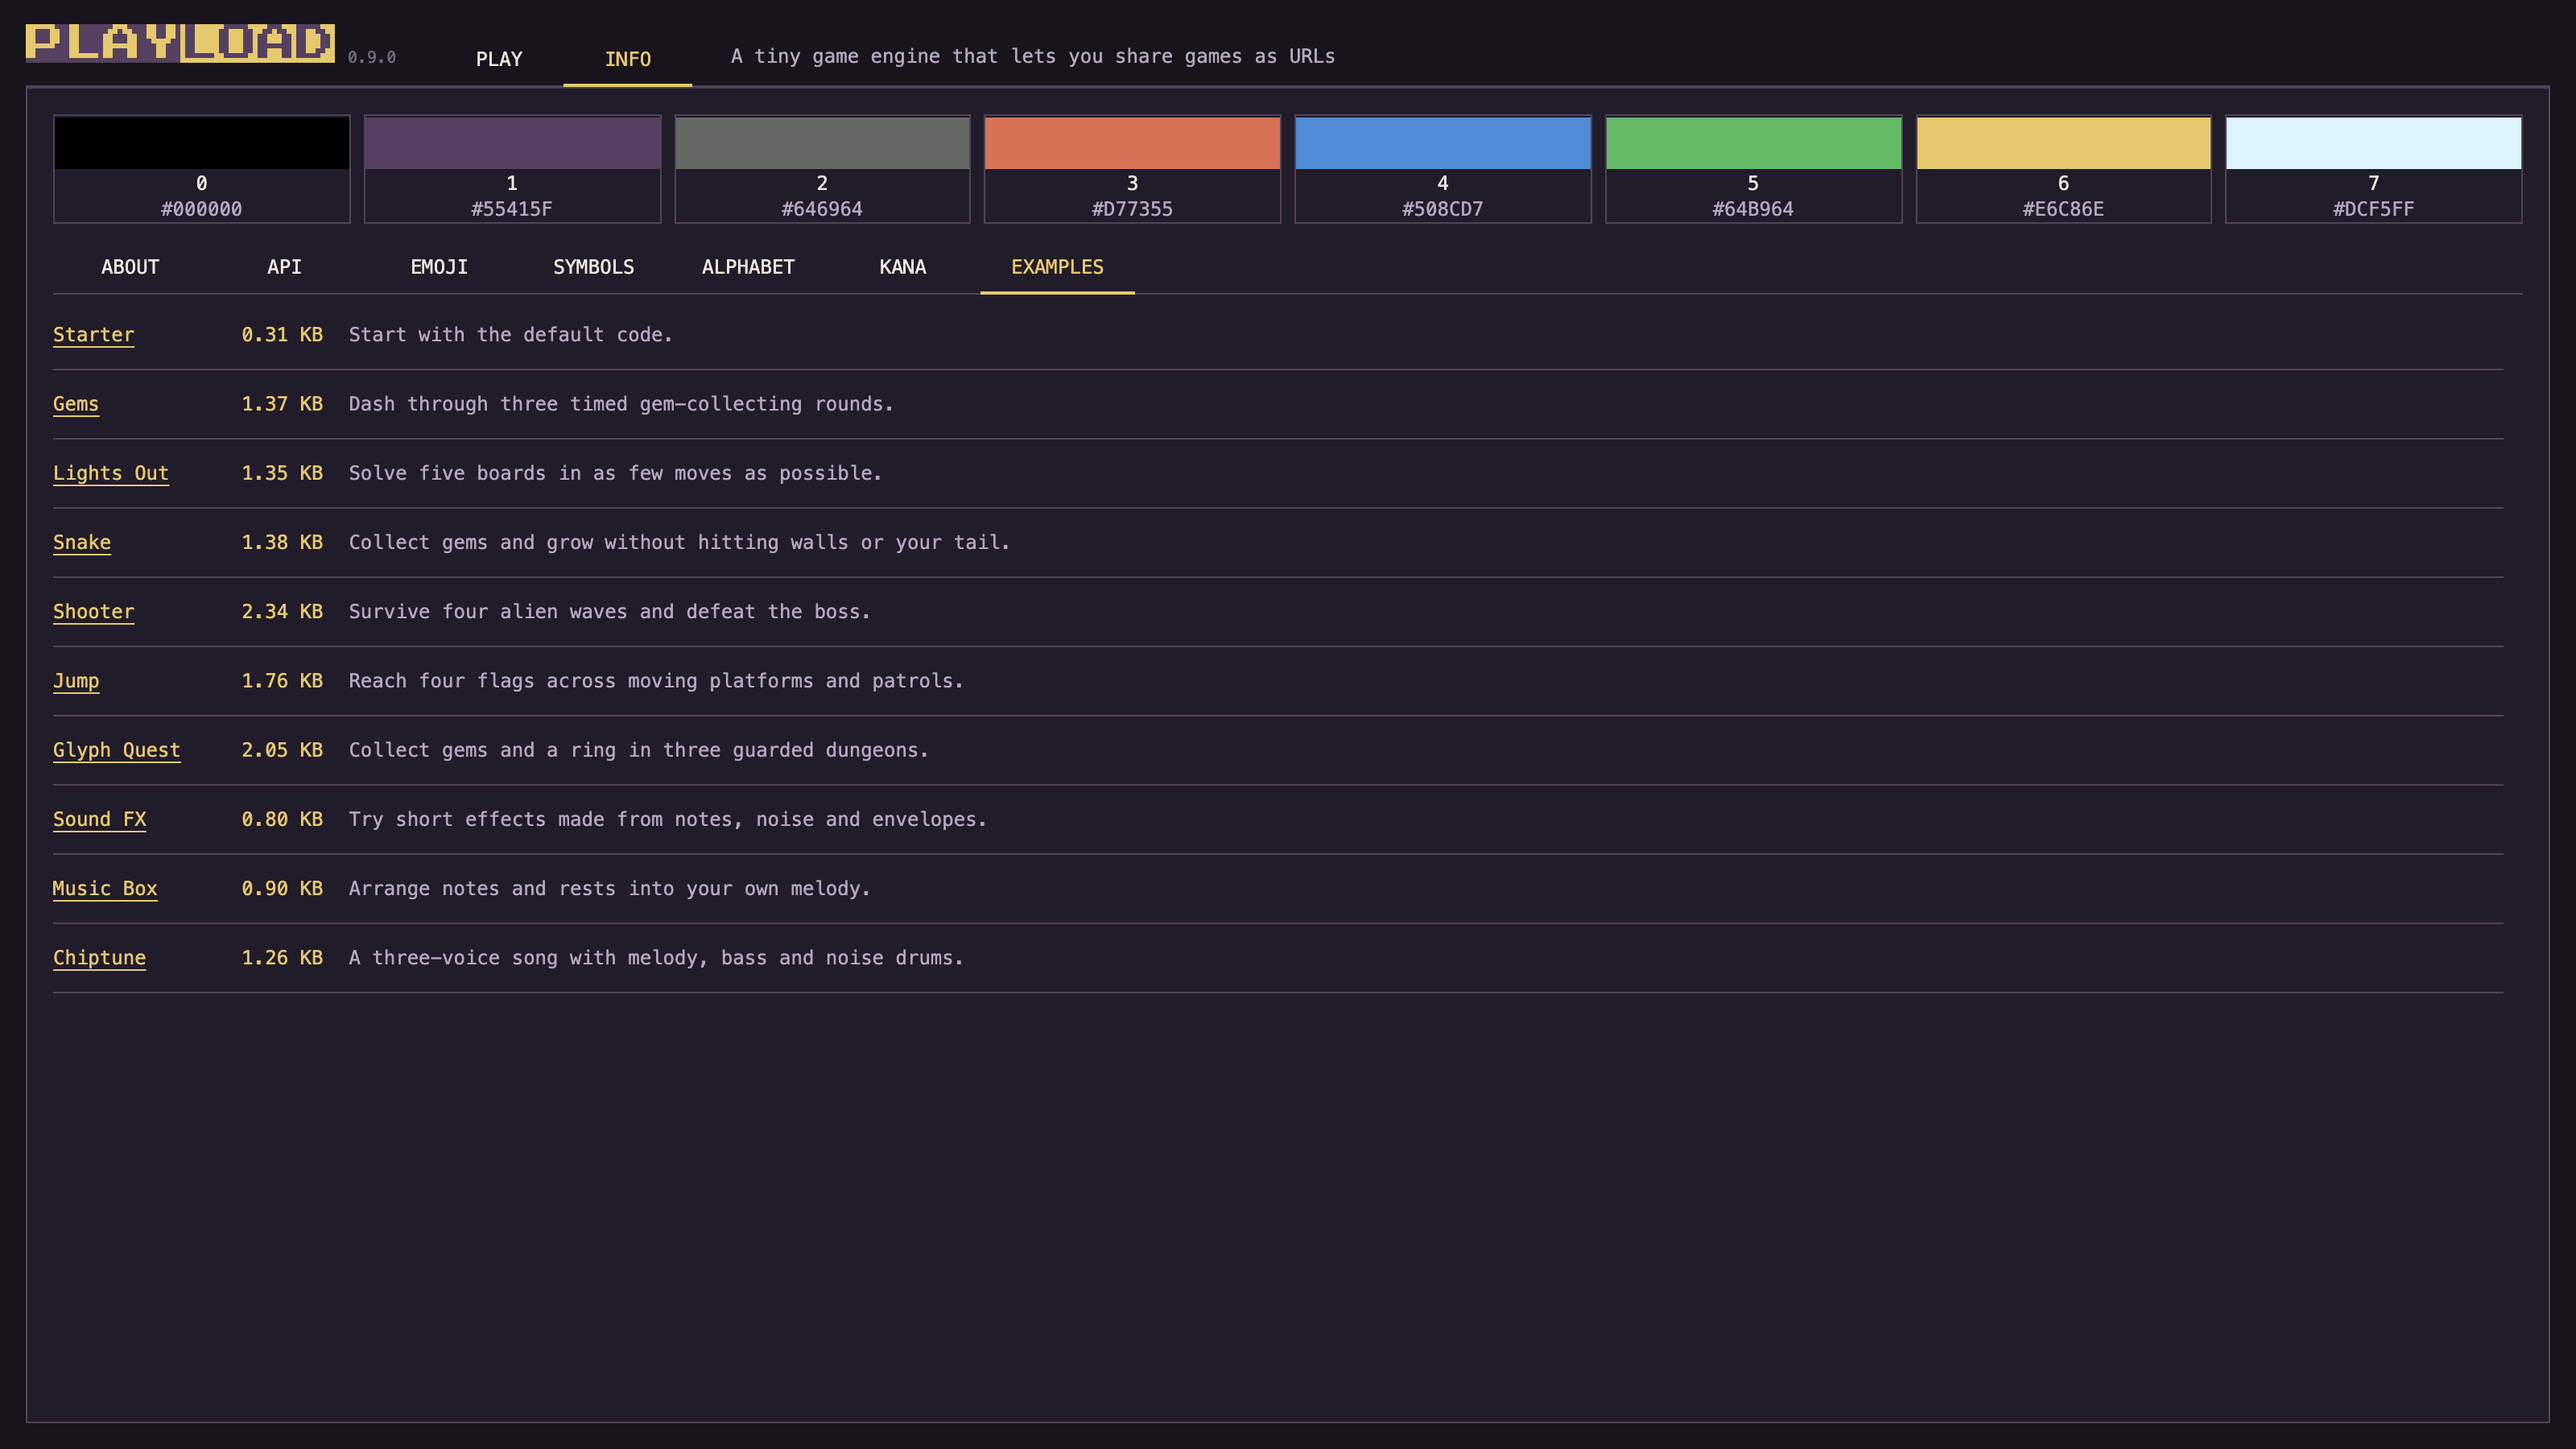
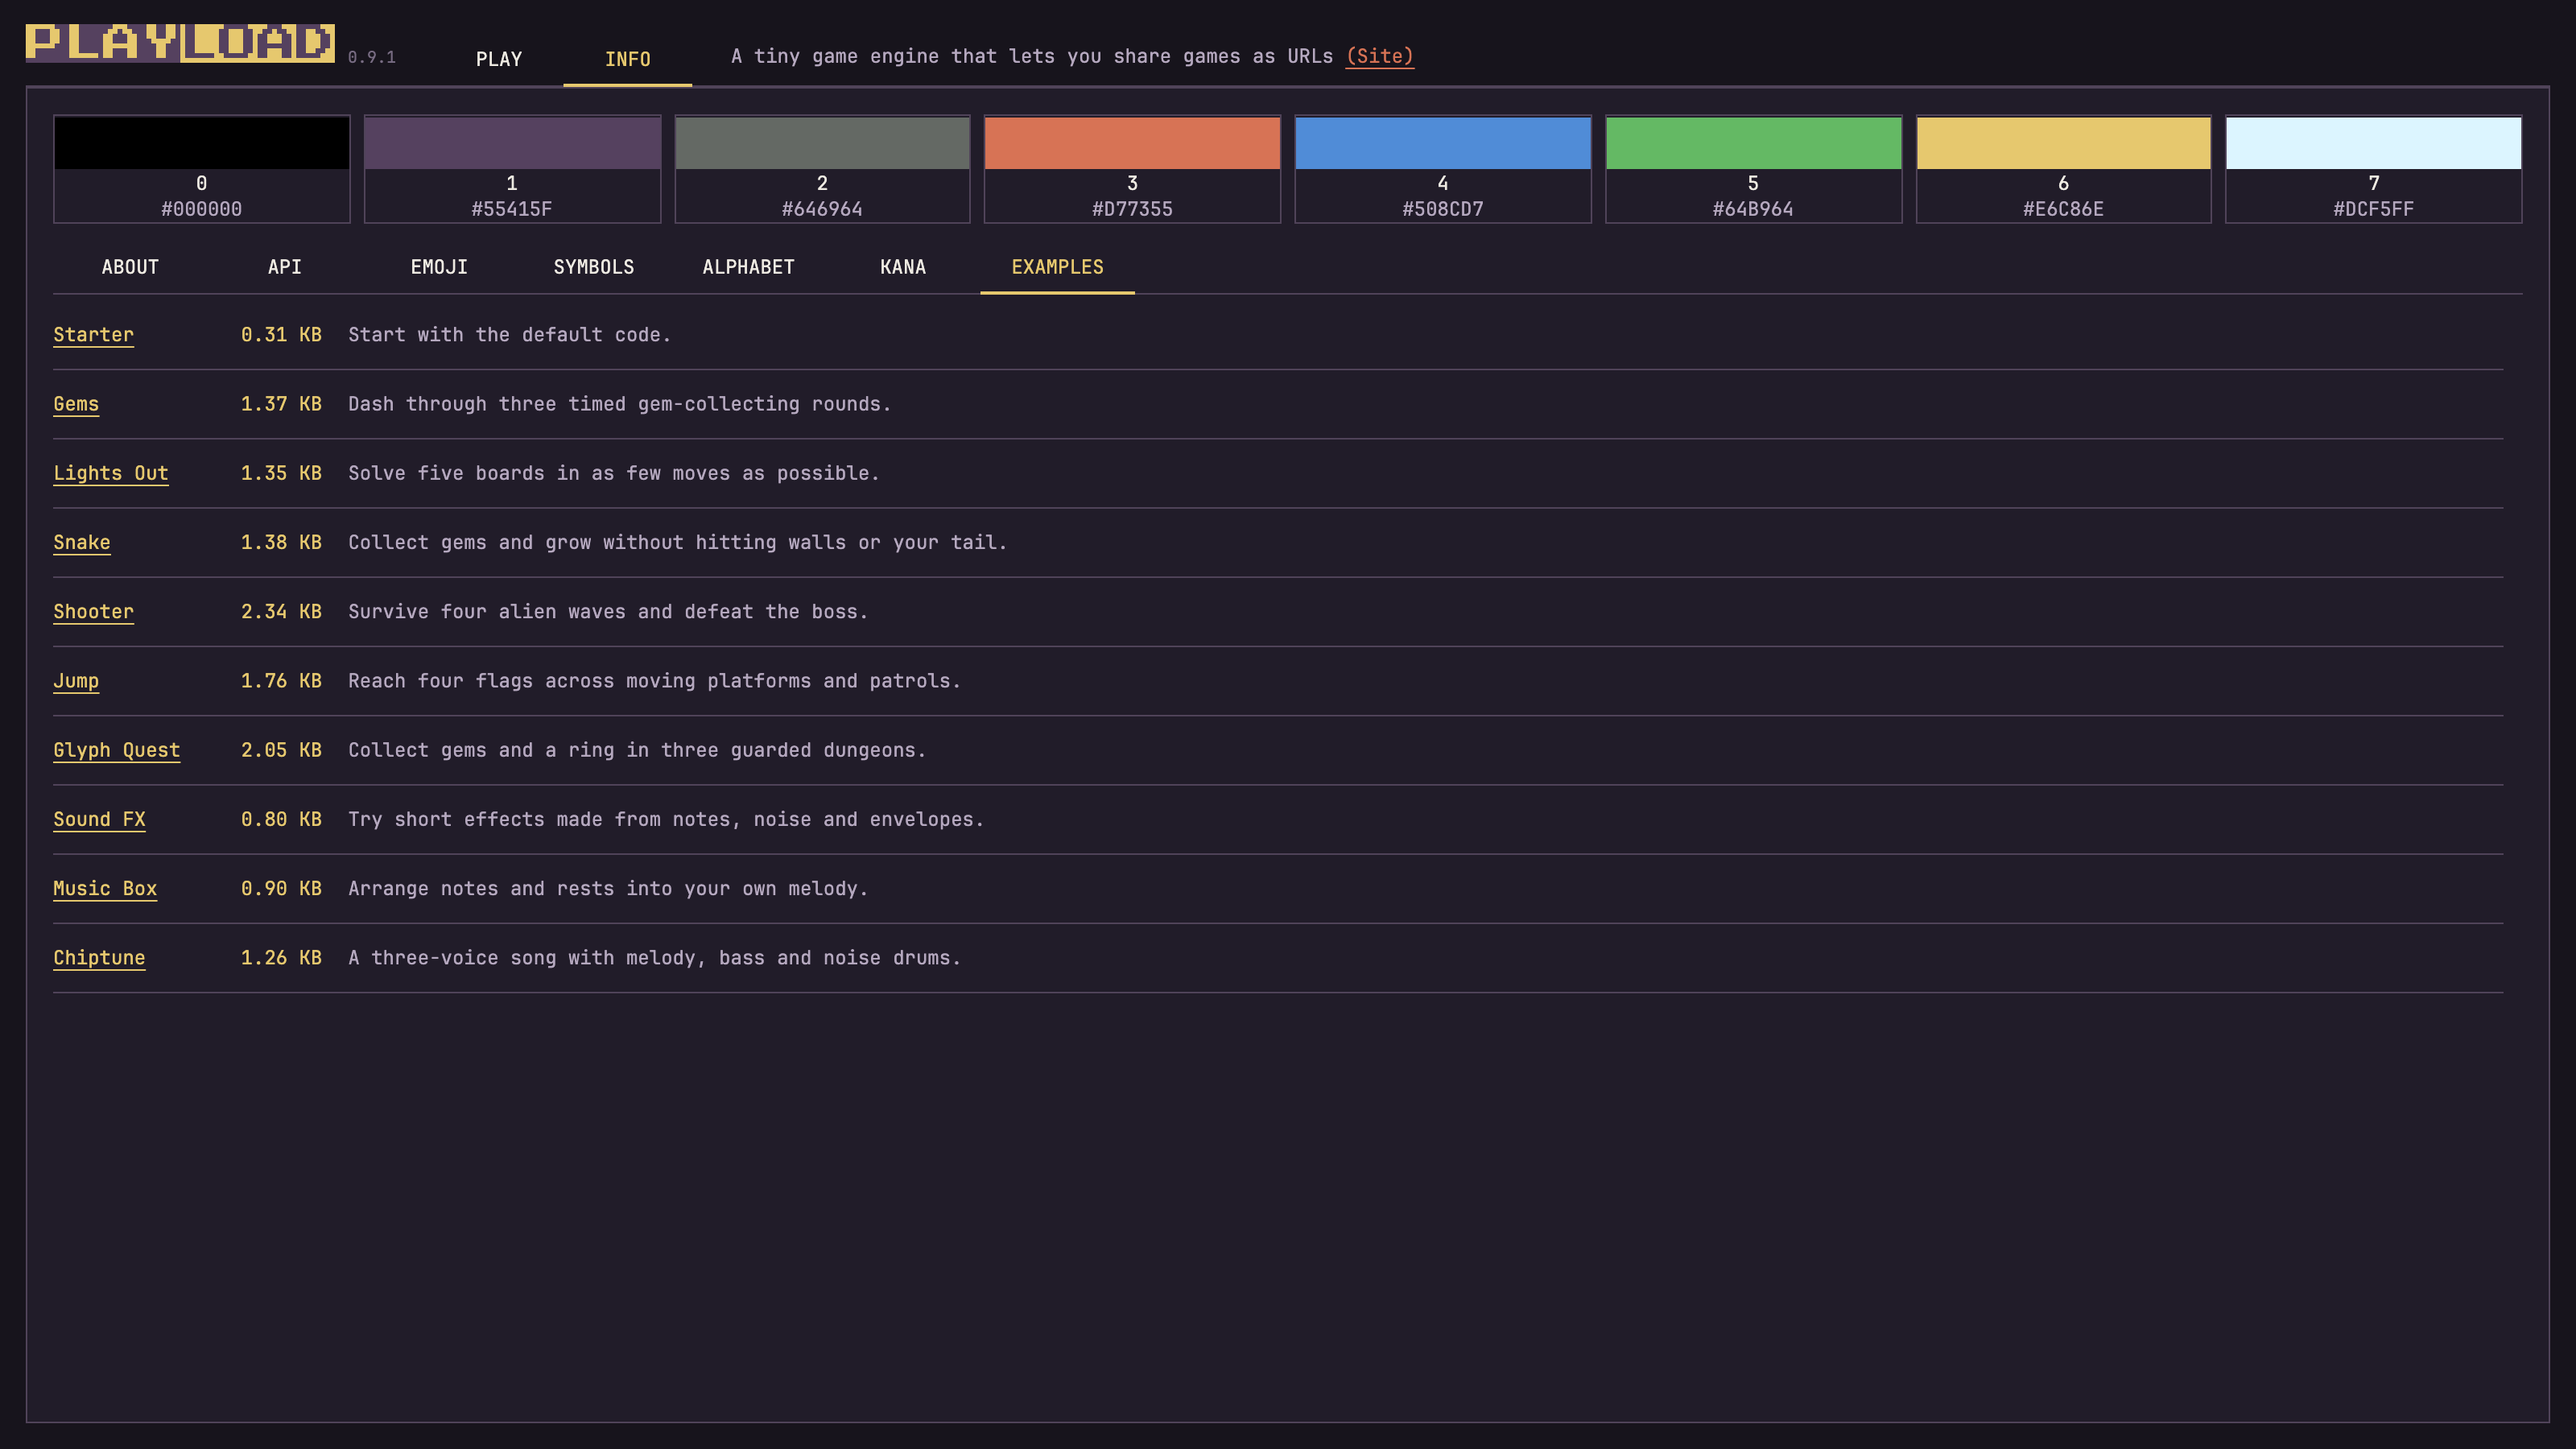
Improve navigation and touch layouts for Playload 0.9.1

diff --git a/tests/browser/runtime.spec.js b/tests/browser/runtime.spec.js
@@ -3280,6 +3280,12 @@ function tick() {
       [320, 568],
       [375, 560],
       [375, 350],
+      [393, 520],
+      [393, 600],
+      [479, 320],
+      [480, 320],
+      [559, 320],
+      [560, 320],
       [375, 667],
       [390, 844],
       [844, 390],
@@ -3328,8 +3334,9 @@ function tick() {
           expect(Math.min(r.width, r.height)).toBeGreaterThanOrEqual(48);
         }
       }
+      const player = await page.locator('#viewport').boundingBox();
+      expect(Math.abs(player.x + player.width / 2 - width / 2)).toBeLessThanOrEqual(1);
       if (height > width) {
-        const player = await page.locator('#viewport').boundingBox();
         const pad = await page.locator('.dpad').boundingBox();
         expect(
           Math.abs(player.y - headerBottom - (pad.y - player.y - player.height)),
@@ -3350,6 +3357,15 @@ function tick() {
       const menu = await page.locator('#workspace-toolbar').boundingBox();
       expect(menu.x + menu.width).toBeLessThanOrEqual(width);
       expect(menu.y + menu.height).toBeLessThanOrEqual(height);
+    }
+    for (const height of [844, 520, 350, 667]) {
+      await page.setViewportSize({ width: 393, height });
+      await expect
+        .poll(async () => {
+          const player = await page.locator('#viewport').boundingBox();
+          return Math.abs(player.x + player.width / 2 - 393 / 2);
+        })
+        .toBeLessThanOrEqual(1);
     }
     await page.setViewportSize({ width: 568, height: 220 });
     await page.goto('/playload/app/');
@@ -4055,7 +4071,9 @@ test('Play opens first, the static retro logo loads, and the starter runs', asyn
   );
   await expect(page.locator('#home-link #logo')).toBeVisible();
   await expect(page.locator('#home-link')).not.toHaveAttribute('target');
-  await expect(page.locator('.intro a')).toHaveCount(0);
+  await expect(page.locator('#site-link')).toHaveAttribute('href', '/playload/');
+  await expect(page.locator('#site-link')).toHaveCSS('color', 'rgb(215, 115, 85)');
+  await expect(page.locator('#site-link')).toHaveCSS('text-decoration-line', 'underline');
   await expect
     .poll(() =>
       page.locator('#logo').evaluate((image) => image.complete && image.naturalWidth === 64),
@@ -5711,7 +5729,7 @@ test('an invalid shared URL focuses the visible player and keeps its error reada
   await expect(page.locator('#editor')).toBeVisible();
 });
 
-test('the tagline stays visible whenever its text fits, without crowding navigation or Tools', async ({
+test('the site link stays visible and the tagline fits without crowding navigation or Tools', async ({
   browser,
 }) => {
   for (const touch of [false, true]) {
@@ -5736,10 +5754,11 @@ test('the tagline stays visible whenever its text fits, without crowding navigat
               new Promise((resolve) => requestAnimationFrame(() => requestAnimationFrame(resolve))),
           );
           const layout = await page.evaluate(() => {
-            const tagline = document.querySelector('header p'),
+            const tagline = document.querySelector('.tagline'),
+              paragraph = document.querySelector('header p'),
               intro = document.querySelector('.intro'),
               tools = document.querySelector('#tools-toggle'),
-              bounds = tagline.getBoundingClientRect(),
+              bounds = paragraph.getBoundingClientRect(),
               available = intro.getBoundingClientRect(),
               toolsWidth = tools.getBoundingClientRect().width,
               gap = toolsWidth ? parseFloat(getComputedStyle(intro).columnGap) : 0,
@@ -5749,11 +5768,19 @@ test('the tagline stays visible whenever its text fits, without crowding navigat
             measure.font = `${style.fontStyle} ${style.fontWeight} ${style.fontSize} ${style.fontFamily}`;
             return {
               fits:
-                measure.measureText(tagline.textContent).width <=
+                measure.measureText(
+                  tagline.textContent.trim() +
+                    ' ' +
+                    document.querySelector('#site-link').textContent,
+                ).width <=
                 available.width - toolsWidth - gap,
               visible: !!tagline.getClientRects().length,
               top: bounds.top,
               inside: bounds.right <= available.right - toolsWidth - gap + 0.02,
+              paragraphWidth: bounds.width,
+              availableWidth: available.width,
+              toolsWidth,
+              gap,
               aligned: !bounds.width || Math.abs(bounds.left - available.left) < 0.02,
               overflow: document.documentElement.scrollWidth > innerWidth,
             };
@@ -5761,7 +5788,7 @@ test('the tagline stays visible whenever its text fits, without crowding navigat
           expect(layout.visible, `${touch ? 'touch' : 'desktop'} ${view} at ${width}px`).toBe(
             layout.fits,
           );
-          expect(layout.inside).toBe(true);
+          expect(layout.inside, JSON.stringify({ touch, view, width, ...layout })).toBe(true);
           expect(layout.aligned).toBe(true);
           expect(layout.overflow).toBe(false);
           if (layout.visible) {
@@ -5769,11 +5796,14 @@ test('the tagline stays visible whenever its text fits, without crowding navigat
             else if (playPositions.has(width))
               expect(layout.top).toBeCloseTo(playPositions.get(width), 1);
           }
-          for (const selector of ['#logo', '#play-tab', '#info-tab', '#home-link'])
+          for (const selector of ['#logo', '#play-tab', '#info-tab', '#home-link', '#site-link'])
             await expect(page.locator(selector)).toBeVisible();
           if (touch && view === 'Play') await expect(page.locator('#tools-toggle')).toBeVisible();
         }
       }
+      await page.locator('#site-link').click();
+      await expect(page).toHaveURL(/\/playload\/$/);
+      await expect(page.locator('.introduction:visible')).toBeVisible();
     } finally {
       await context.close();
     }

diff --git a/src/app/style.css b/src/app/style.css
@@ -157,6 +157,8 @@ header {
   container-type: inline-size;
 }
 header p {
+  display: flex;
+  gap: 1ch;
   flex: none;
   min-width: 0;
   margin: 0;
@@ -164,6 +166,15 @@ header p {
   line-height: 16px;
   color: var(--muted);
   white-space: nowrap;
+}
+#site-link {
+  color: #d77355;
+  text-decoration: underline;
+  text-decoration-thickness: 1px;
+}
+#site-link:focus-visible {
+  outline: 1px solid currentColor;
+  outline-offset: 3px;
 }
 #size {
   position: relative;
@@ -1090,14 +1101,14 @@ body[data-touch='true'] kbd {
 body[data-touch='true'] #screen:focus {
   outline: none;
 }
-/* Match the tagline length; touch Play also reserves the Tools button and gap. */
-@container (width < 52ch) {
-  header p {
+/* Keep the site link visible; touch Play also reserves the Tools button and gap. */
+@container (width < 59ch) {
+  header .tagline {
     display: none;
   }
 }
-@container (width < calc(52ch + 56px)) {
-  body[data-touch='true'][data-view='play'] header p {
+@container (width < calc(59ch + 56px)) {
+  body[data-touch='true'][data-view='play'] header .tagline {
     display: none;
   }
 }
@@ -1346,6 +1357,8 @@ body[data-touch='true'] #game {
 }
 body[data-touch='true'][data-editor-closed='true'] #viewport {
   flex: 0 1 auto;
+  align-self: center;
+  width: 100%;
   aspect-ratio: 10 / 9;
   max-height: calc(100% - 176px);
 }
@@ -1362,6 +1375,8 @@ body[data-touch='true'] #picture {
   #palette {
     grid-template-columns: repeat(8, minmax(0, 1fr));
   }
+}
+@media (orientation: landscape) and (min-width: 480px) {
   body[data-touch='true'][data-editor-closed='true'] #viewport {
     flex: 1;
     width: calc(100% - 312px);
@@ -1440,6 +1455,40 @@ body[data-touch='true'] #picture {
   #logo {
     width: 96px;
     height: 12px;
+  }
+}
+
+@media (orientation: landscape) and (max-width: 479px) and (max-height: 419px) {
+  body[data-touch='true'][data-editor-closed='true'] #game {
+    gap: 4px;
+  }
+  body[data-touch='true'][data-editor-closed='true'] #viewport {
+    max-height: calc(100% - 148px);
+  }
+  body[data-touch='true'][data-editor-closed='true'] #picture {
+    padding: 4px;
+  }
+}
+
+@media (max-width: 419px) {
+  :root {
+    --workspace-tab-width: 56px;
+  }
+  body[data-touch='true'] #logo {
+    width: 96px;
+    height: 12px;
+  }
+}
+@media (max-width: 374px) {
+  :root {
+    --workspace-tab-width: 48px;
+  }
+  body[data-touch='true'] header {
+    gap: 4px;
+  }
+  body[data-touch='true'] #logo {
+    width: 64px;
+    height: 8px;
   }
 }
 

diff --git a/src/app/index.html b/src/app/index.html
@@ -41,7 +41,10 @@
           <button id="info-tab" data-view="info" role="tab" aria-controls="info">Info</button>
         </nav>
         <div class="intro">
-          <p>{{DESCRIPTION}}</p>
+          <p>
+            <span class="tagline">{{DESCRIPTION}}</span
+            ><a id="site-link" href="/playload/" aria-label="Playload website">(Site)</a>
+          </p>
           <button
             id="tools-toggle"
             aria-label="Tools"

diff --git a/CHANGELOG.md b/CHANGELOG.md
@@ -1,5 +1,11 @@
 # Changelog
 
-## 0.9.0 (Unreleased)
+## 0.9.1
+
+- Add a website link to the app header that remains visible on narrow screens.
+- Improve touch player centering and layouts in short and landscape viewports.
+- Refresh the website screenshots.
+
+## 0.9.0
 
 - Initial release of Playload: a JavaScript game engine and browser tool for sharing games as URLs.
